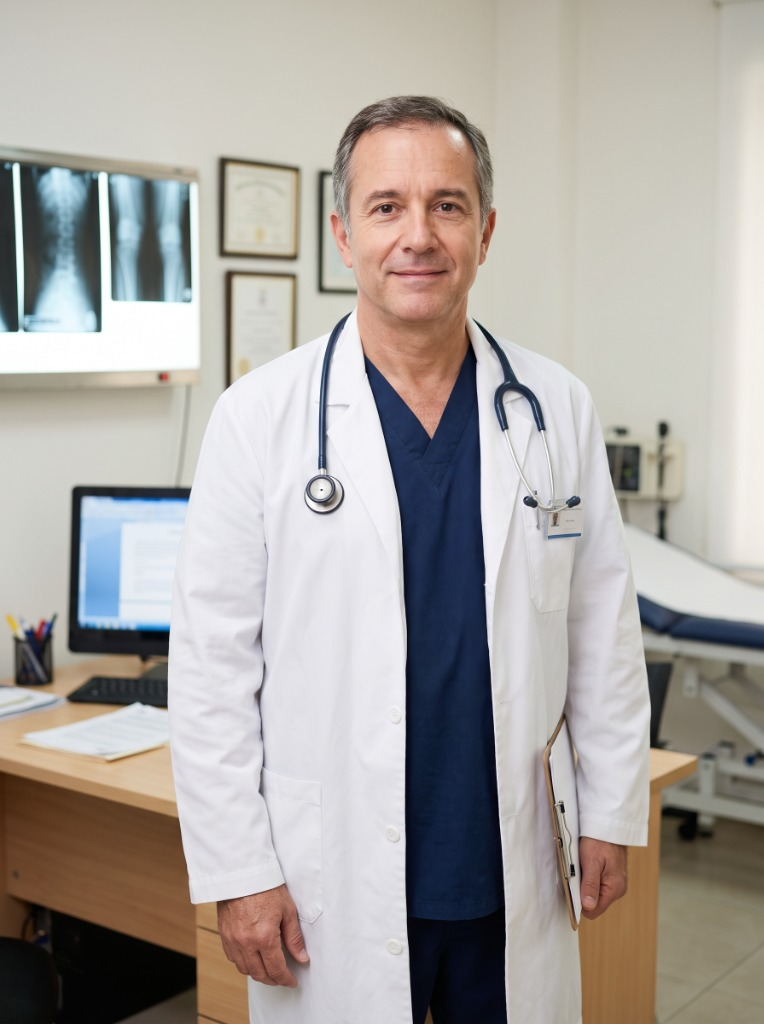
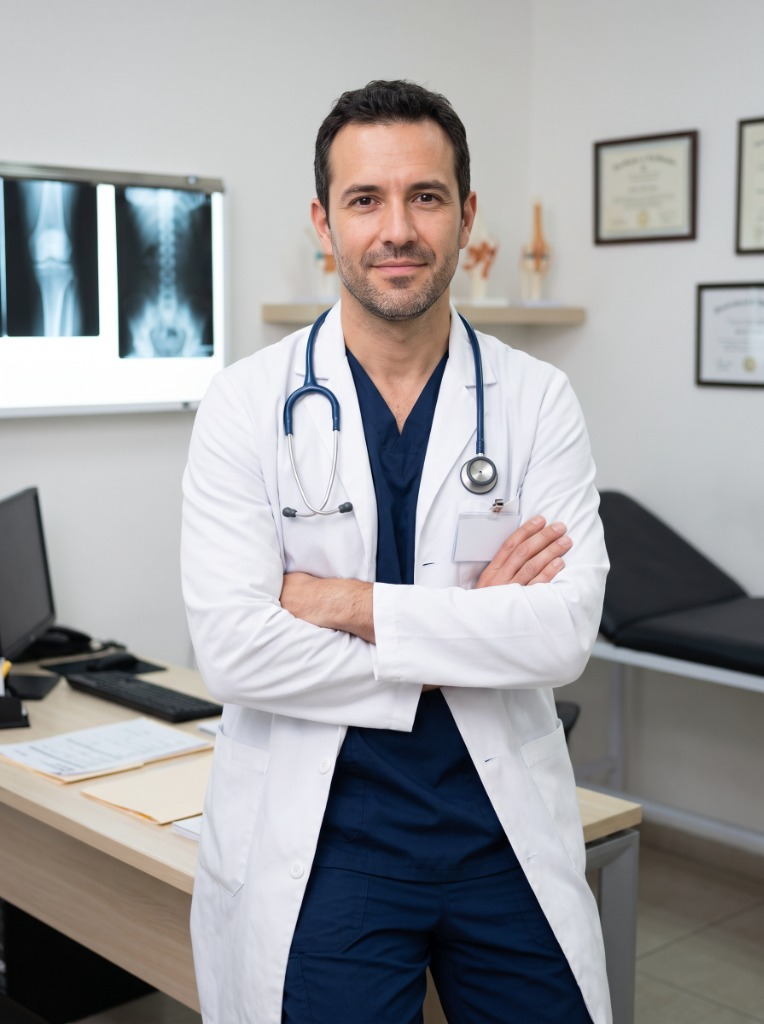
feat: actualizar foto del Dr. Saravia y asignar foto a Valeria Aguirre

diff --git a/prisma/seed-data.ts b/prisma/seed-data.ts
@@ -789,7 +789,7 @@ export const PROFESSIONALS: SeedProfessional[] = [
     licenseNumber: "9377",
     phone: "387 156-8845",
     email: "valeria.aguirre@example.com",
-    photoUrl: null,
+    photoUrl: "/images/professionals/valeria-aguirre.jpg",
     notes: "Se incorpora en octubre; falta cargar la agenda.",
     titles: [KINESIOLOGIST],
     services: ["Sesión de kinesiología motora"],
